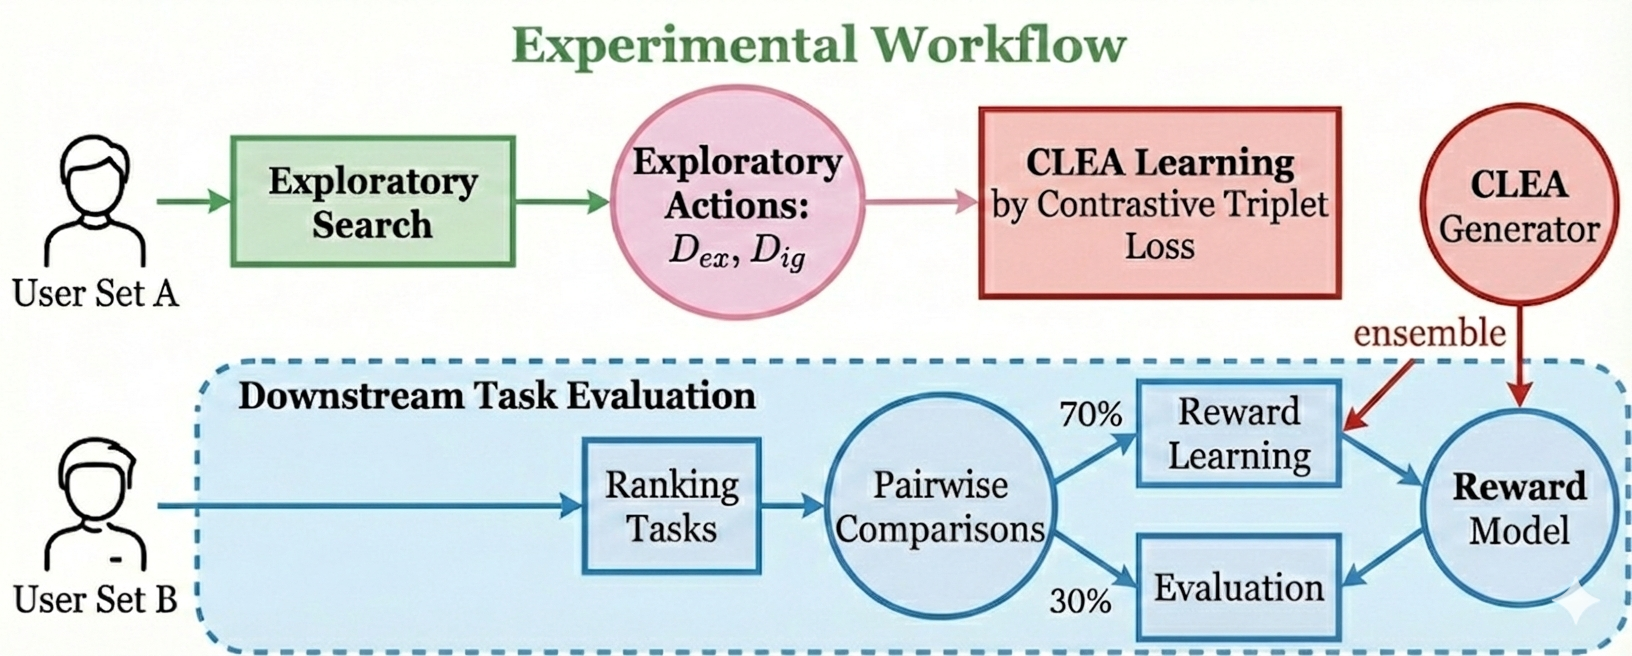
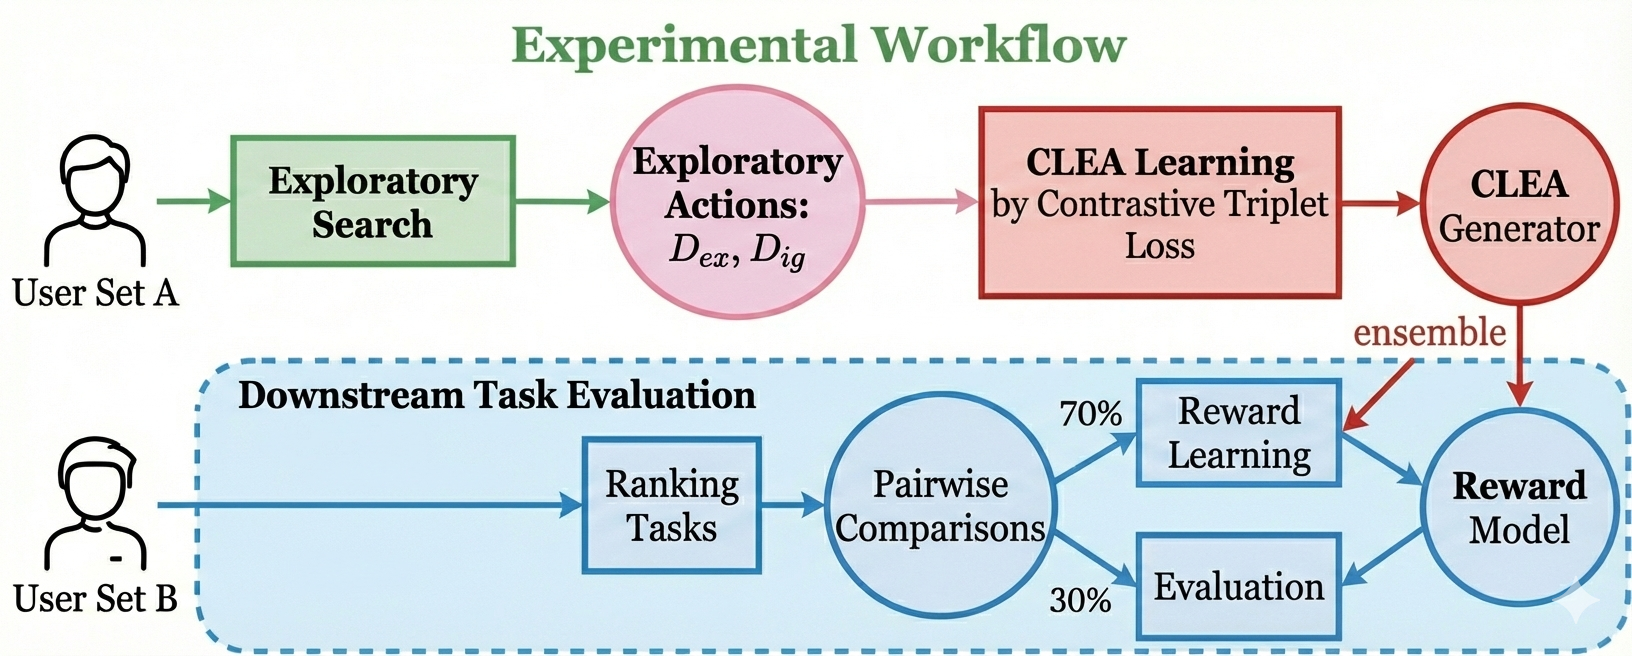
cmt-20260128-7
CLEA: open questions

diff --git a/conf/HRI/25/CLEA/main.tex b/conf/HRI/25/CLEA/main.tex
@@ -126,7 +126,7 @@ The summarized block-diagram of \textit{experimental workflow} see \cref{fig:cle
 \begin{figure}[tb]
   \centering
   \includegraphics[width=0.95\textwidth]{fig/clea_experimental_workflow_diagram.png}
-  \caption{Summarized Block-Diagram of GP-based Robust Motion Planning}
+  \caption{Summarized Block-Diagram of CLEA Experimental Workflow}
   \label{fig:clea}
 \end{figure}
 
@@ -141,14 +141,14 @@ The original block-diagram see \cref{fig:original}.
   \label{fig:original}
 \end{figure}
 
-% \section{Open Questions}
+\section{Open Questions}
 
-% \begin{enumerate}
-%     \item \textbf{Scalability and Representing Multi-Modal Distributions:} 
-%     How does the proposed framework address the $O(N^3)$ computational complexity of Gaussian Processes (GPs) as the robot accumulates more environmental data? Furthermore, can a single Gaussian Process model effectively represent multi-modal failure risk distributions when the true risk landscape exhibits multiple distinct failure modes in topologically complex environments?
-%     \item \textbf{Transition to Generative Normalizing Flows:} 
-%     Could the current discriminative GP classifier for failure detection be augmented or replaced with a generative Normalizing Flow (NF) model that can capture multi-modal failure risk distributions? Specifically, would NF's latent space representation enable more efficient sampling of recovery candidate states compared to the current sampling approach?
-% \end{enumerate}
+\begin{enumerate}
+    \item \textbf{Purpose of Symmetric Triplet Loss:} 
+    Does the second half of Eq. 3 make sense? Will it increase the risk of overfitting while having limited effectiveness in promoting convergence?
+    \item \textbf{Generalizabilityity and Scalability:}
+    Can the trained CLEA feature generator only be integrated into the robot customization process for online inference to obtain feature vectors? How about other scenarios like utilizing CLEA generator offline to generate vectors to build a feature vector database? If so, does the trained generator meet the generalizabilityity quirements?
+\end{enumerate}
 
 \bibliographystyle{abbrvnat}
 \bibliography{main}
